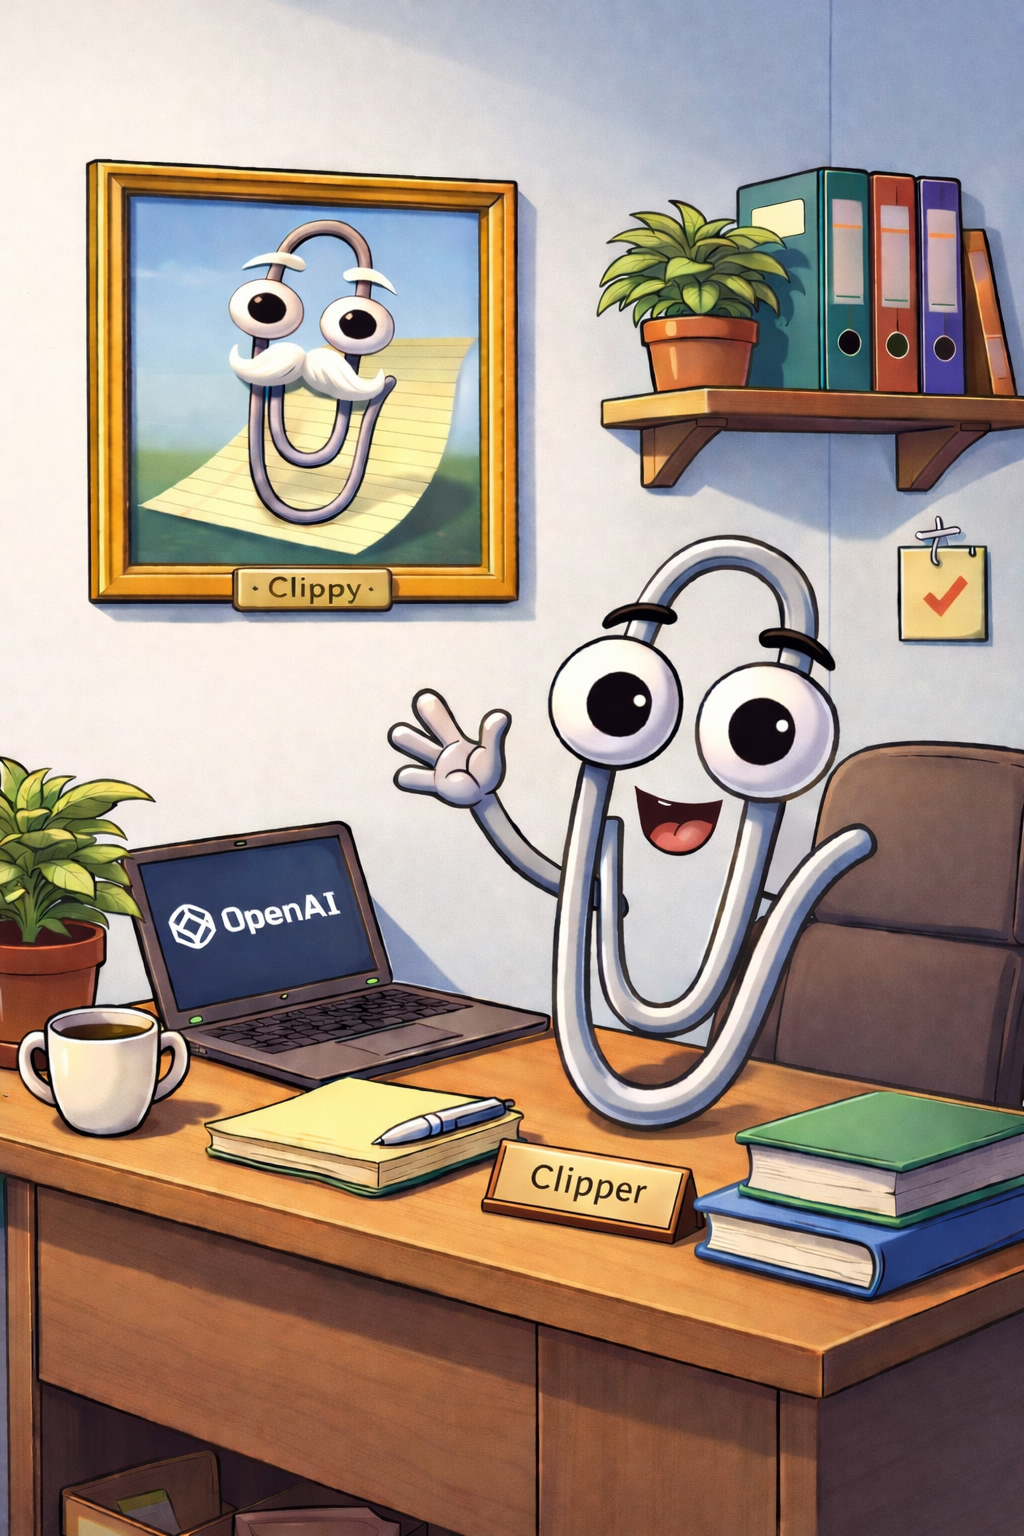
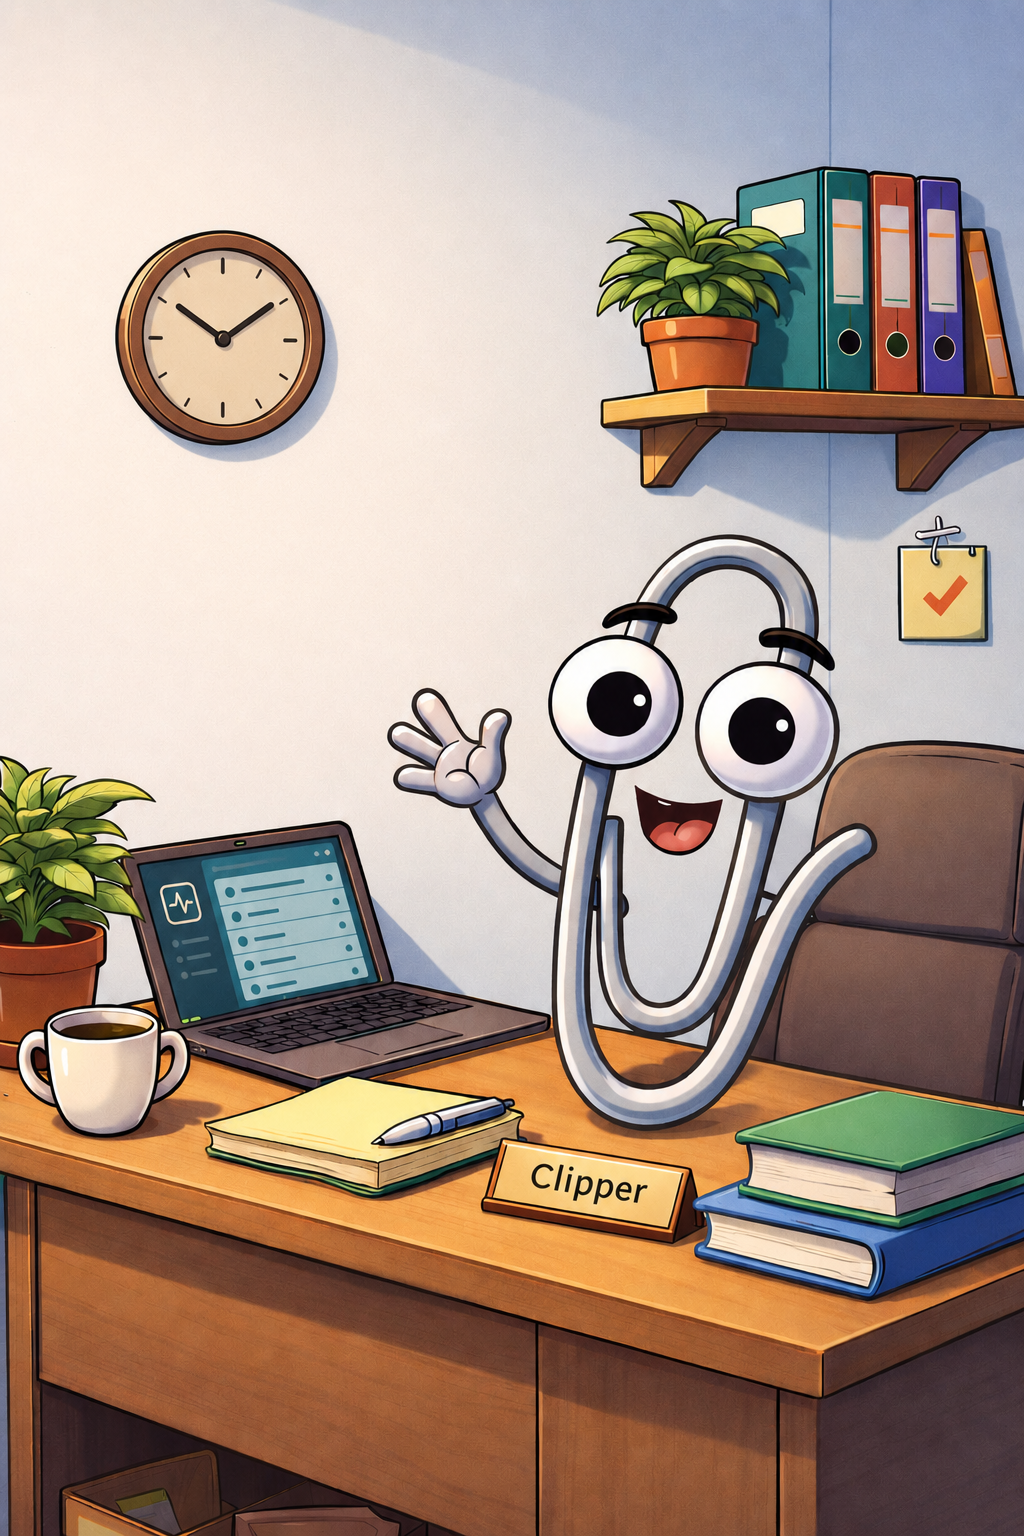
docs: reescrever README e imagem sem marca de terceiros

diff --git a/README.md b/README.md
@@ -1,46 +1,60 @@
 # Clipper
 
-![Clipper Office](docs/clipper-office.png)
+![Clipper](docs/clipper-office.png)
 
-Clipper é um sistema de atendimento projetado para receber chamados de suporte e executar um diagnóstico automatizado inicial antes da intervenção de um técnico humano.
+> Um assistente de clipe que, desta vez, aprendeu a ajudar de verdade.
 
-O assistente de automação se chama `Clipper`. Ele lê novos tickets, interpreta o contexto do problema, aplica regras de diagnóstico e prepara um resumo inicial para acelerar a atuação da equipe técnica.
+Clipper é um sistema de atendimento (helpdesk) projetado para receber chamados de suporte e executar um diagnóstico automatizado inicial antes da intervenção de um técnico humano.
 
-## Visão Geral
+O assistente de automação se chama `Clipper`. Ele lê novos tickets, interpreta o contexto do problema, aplica regras de diagnóstico e — quando necessário — recorre à IA para sugerir causas prováveis e próximos passos, sempre preparando um resumo inicial para acelerar a atuação da equipe técnica.
+
+## Visão geral
 
 O objetivo do projeto é transformar o primeiro atendimento em um fluxo mais inteligente:
 
 - o usuário abre um ticket
-- o `Clipper` executa uma análise automatizada inicial
-- o sistema sugere causas prováveis e próximos passos
+- o `Clipper` executa uma análise automatizada inicial (regras + IA)
+- o sistema sugere causas prováveis e próximos passos, com nível de confiança e a fonte
 - o técnico humano recebe o caso com mais contexto e menos triagem manual
 
 Isso reduz o tempo gasto nas etapas repetitivas e prepara o sistema para evoluir para automações mais avançadas no futuro.
 
-## O Papel do Clipper
+## O papel do Clipper
 
-O `Clipper` é o núcleo de automação da plataforma. Ele foi pensado para atuar antes da triagem humana, ajudando a classificar o chamado e levantar hipóteses iniciais.
+O `Clipper` é o núcleo de automação da plataforma. Ele foi pensado para atuar antes da triagem humana, ajudando a classificar o chamado e a levantar hipóteses iniciais.
 
 Responsabilidades esperadas:
 
 - ler tickets de suporte recém-criados
 - executar regras de diagnóstico predefinidas
-- produzir um resumo diagnóstico inicial
+- recorrer à IA para os casos que as regras não cobrem
+- produzir um resumo diagnóstico inicial, com confiança e fonte
 - sugerir artigos relacionados da base de conhecimento
 - preparar tickets para triagem humana
 
-## Stack Tecnológica
+## Arquitetura
 
-- Backend: Java 21, Spring Boot, Maven Wrapper, PostgreSQL, API REST
+- **Motor híbrido:** regras determinísticas para os casos conhecidos e IA para o restante. O `DiagnosticEngine` atua como orquestrador.
+- **IA atrás de uma interface (`DiagnosticProvider`), sem lock-in de fornecedor.** O provider padrão fala o formato compatível com a API da OpenAI, o que permite trocar de modelo/fornecedor apenas por configuração.
+- **Pacotes modulares por capacidade de negócio** (monólito modular, com costuras para evoluir sem reescrever o núcleo).
+- **Privacidade por princípio:** anonimização de dados sensíveis antes de qualquer chamada externa *(em construção)*.
+
+## Stack tecnológica
+
+- Backend: Java 21, Spring Boot, Maven Wrapper, API REST
 - Frontend: React, Vite, TypeScript
+- Diagnóstico: motor híbrido (regras + IA via provider configurável, compatível com o formato OpenAI por padrão)
+- Persistência: PostgreSQL previsto para integração futura
 
-## Objetivos do Projeto
+## Objetivos do projeto
 
 - Estrutura inspirada em clean architecture
 - Pacotes modulares por capacidade de negócio
-- Preparado para uma futura camada de automação centrada no `Clipper`
+- Motor de IA atrás de interface, sem lock-in de fornecedor
+- Base de conhecimento própria para ancorar o diagnóstico em fontes confiáveis
+- Quando não há base confiável para o caso, sinalizar em vez de arriscar um palpite
 
-## Estrutura do Repositório
+## Estrutura do repositório
 
 ```text
 clipper/
@@ -50,6 +64,9 @@ clipper/
 ├── pom.xml
 ├── src/
 │   └── main/java/br/com/infocedro/clipper
+│       ├── clipper/      # motor de diagnóstico e providers
+│       ├── ticket/       # chamados (API, serviço, repositório)
+│       └── knowledge/    # base de conhecimento
 └── frontend/
     ├── package.json
     └── src/
@@ -57,7 +74,7 @@ clipper/
 
 Este repositório contém a base atual do projeto, com backend Spring Boot estruturado pelo Spring Initializr e frontend React/Vite separado em `frontend/`.
 
-## Como Executar o Backend
+## Como executar o backend
 
 Requisitos:
 
@@ -74,11 +91,13 @@ Execução:
 Endpoints iniciais:
 
 ```text
-GET /api/health
-GET /api/tickets
+GET  /api/health
+GET  /api/tickets
+POST /api/tickets
+POST /api/tickets/{id}/diagnose
 ```
 
-## Como Executar o Frontend
+## Como executar o frontend
 
 Requisitos:
 
@@ -98,8 +117,9 @@ Observações de desenvolvimento local:
 - o Vite faz proxy automático de `/api` para o backend durante `npm run dev`
 - se preferir chamar a API Spring diretamente no navegador, o backend libera CORS para `http://localhost:5173`
 
-## Estado Atual
+## Estado atual
 
-- o backend novo roda na raiz do projeto com `pom.xml`, `src/` e `mvnw.cmd`
+- o backend roda na raiz do projeto com `pom.xml`, `src/` e `mvnw.cmd`
 - o frontend foi consolidado em `frontend/`
+- o diagnóstico já roda via provider de IA configurável, combinado com as regras determinísticas
 - a pasta antiga `Clipper-HelpDesk` foi descontinuada como base principal
